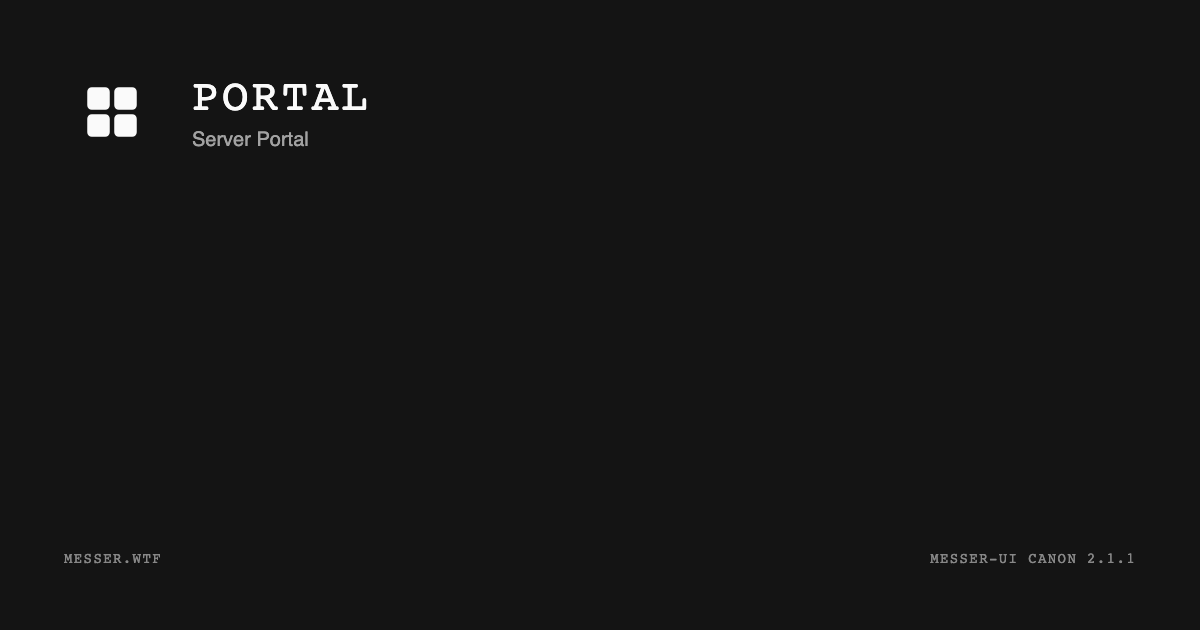
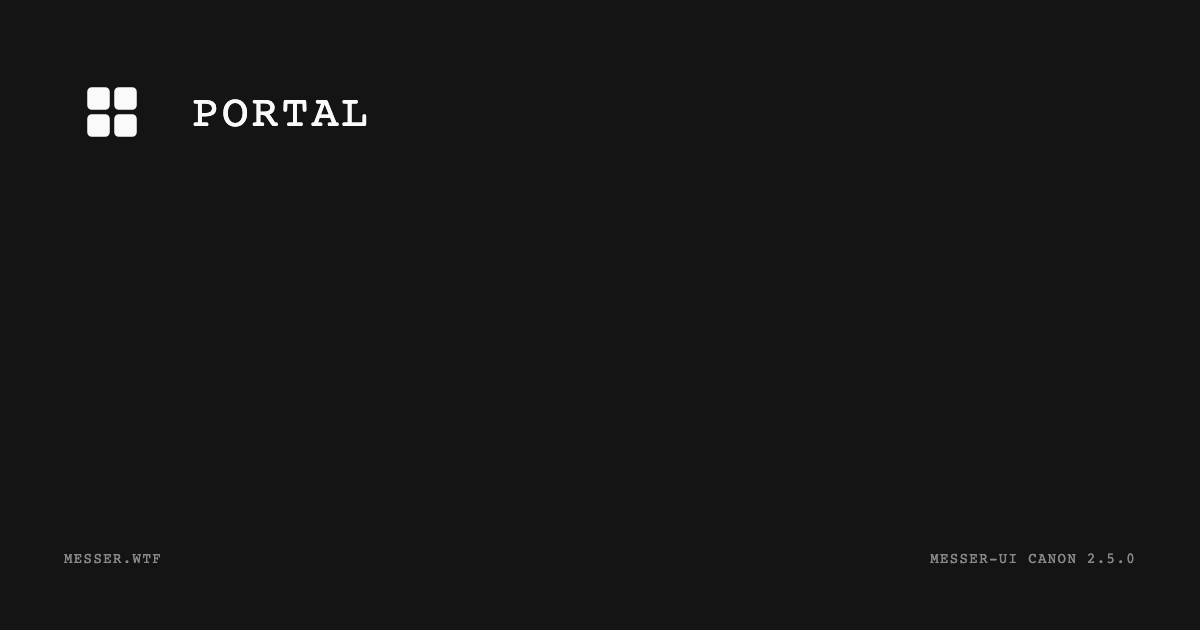
feat(brand): lineup — acid-lime accent on a magenta room
brand/lineup.json from the frozen design handover (stage-in-neon-smoke):
phosphor MicrophoneStage, accent oklch(0.52 0.17 128) light / oklch(0.84 0.19 128)
dark. brand:check passes both modes (fg contrast 5.20 / 12.68, L band, 22° from
success so the lime never reads as a status).

Regenerated with it: marks/lineup (favicon 32, apple-touch, dark svg, og),
packages/css/brand/lineup.css, registry/brand-lineup, and the marks whose OG
plate carries the stamp.

Changed region(s): [[0.1542, 0.1206, 0.3083, 0.2413], [0.925, 0.8746, 0.9558, 0.9048]]

diff --git a/packages/css/brand/lineup.css b/packages/css/brand/lineup.css
@@ -1,0 +1,37 @@
+/* messer-ui canon 2.5.0 — generated from canon/ and brand/; do not edit. */
+/* brand lineup — accent and chart ramps only. */
+:root {
+  --primary: oklch(0.52 0.17 128);
+  --primary-foreground: #ffffff;
+  --primary-hover: color-mix(in oklab, oklch(0.52 0.17 128) 86%, #000000);
+  --ring: oklch(0.52 0.17 128);
+  --chart-1: oklch(0.82 0.12 128);
+  --chart-2: oklch(0.7 0.16 128);
+  --chart-3: oklch(0.58 0.16 128);
+  --chart-4: oklch(0.46 0.16 128);
+  --chart-5: oklch(0.34 0.16 128);
+  --chart-cat-1: oklch(0.52 0.17 128);
+  --chart-cat-2: oklch(0.76 0.006 205);
+  --chart-cat-3: oklch(0.64 0.006 205);
+  --chart-cat-4: oklch(0.52 0.006 205);
+  --chart-cat-5: oklch(0.4 0.006 205);
+  --chart-cat-6: oklch(0.28 0.006 205);
+}
+
+.dark {
+  --primary: oklch(0.84 0.19 128);
+  --primary-foreground: #0a0a0a;
+  --primary-hover: color-mix(in oklab, oklch(0.84 0.19 128) 86%, #ffffff);
+  --ring: oklch(0.84 0.19 128);
+  --chart-1: oklch(0.86 0.12 128);
+  --chart-2: oklch(0.74 0.12 128);
+  --chart-3: oklch(0.62 0.16 128);
+  --chart-4: oklch(0.5 0.16 128);
+  --chart-5: oklch(0.38 0.16 128);
+  --chart-cat-1: oklch(0.84 0.19 128);
+  --chart-cat-2: oklch(0.78 0.006 205);
+  --chart-cat-3: oklch(0.66 0.006 205);
+  --chart-cat-4: oklch(0.54 0.006 205);
+  --chart-cat-5: oklch(0.42 0.006 205);
+  --chart-cat-6: oklch(0.3 0.006 205);
+}
